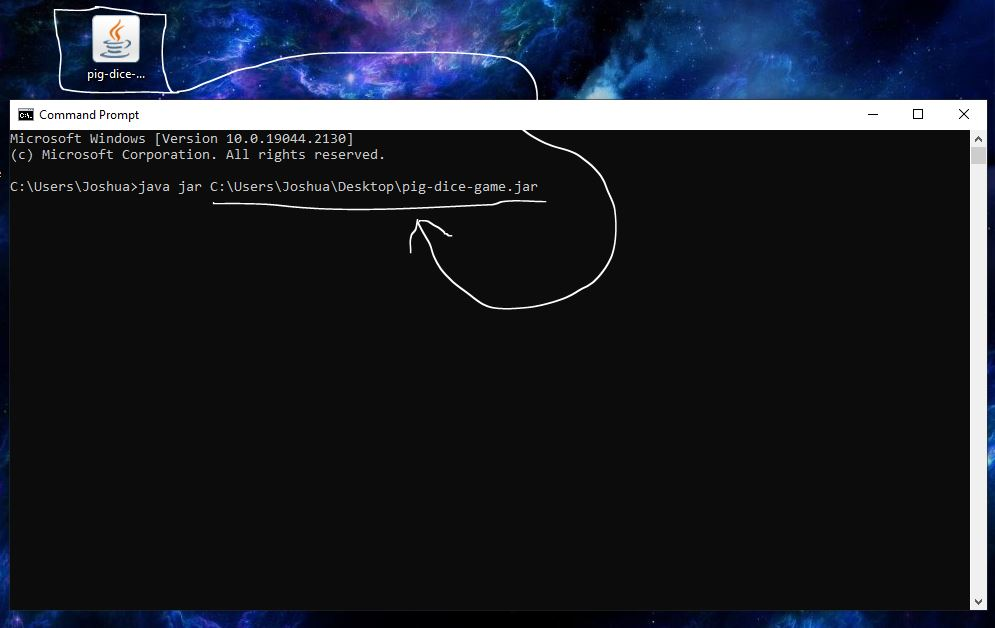
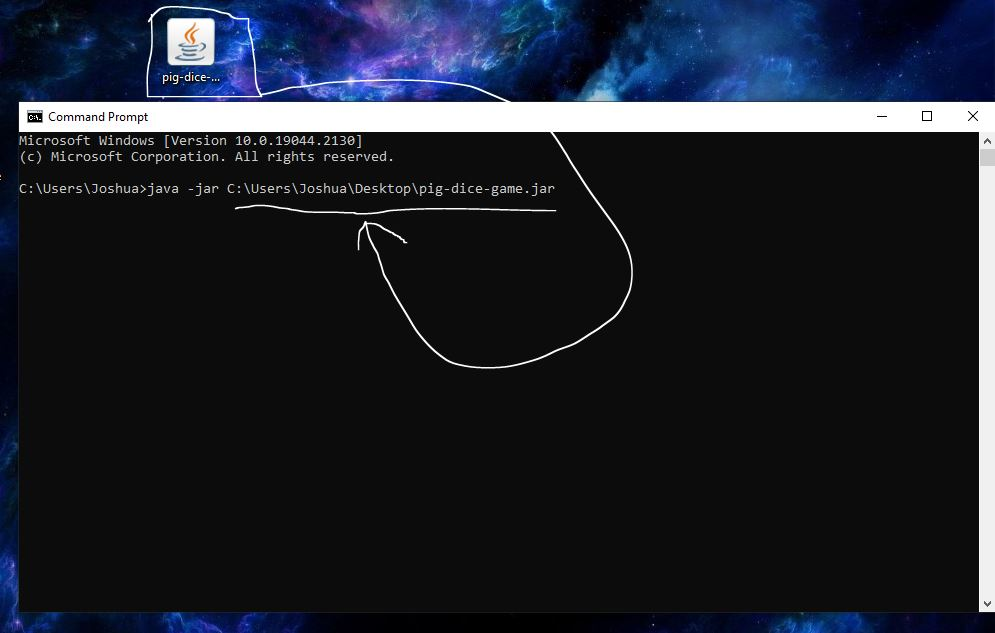
fix error

diff --git a/assets/jar/README.md b/assets/jar/README.md
@@ -1,7 +1,7 @@
 # README
 
 ## How to Play the Game
-To play this game, download the .jar file in this directory. Once the .jar file is downloaded, type 'cmd' into the start menu and open the command prompt. Type 'java jar ' into the terminal. Drag the .jar file next to the word 'jar'. Press the 'Enter' key to start the game. 
+To play this game, download the .jar file in this directory. Once the .jar file is downloaded, type 'cmd' into the start menu and open the command prompt. Type 'java -jar ' into the terminal. Drag the .jar file next to the word 'jar'. Press the 'Enter' key to start the game. 
 
 ## Demo
 ![Alt text](./images/01-image.JPG?raw=true "Demo")
